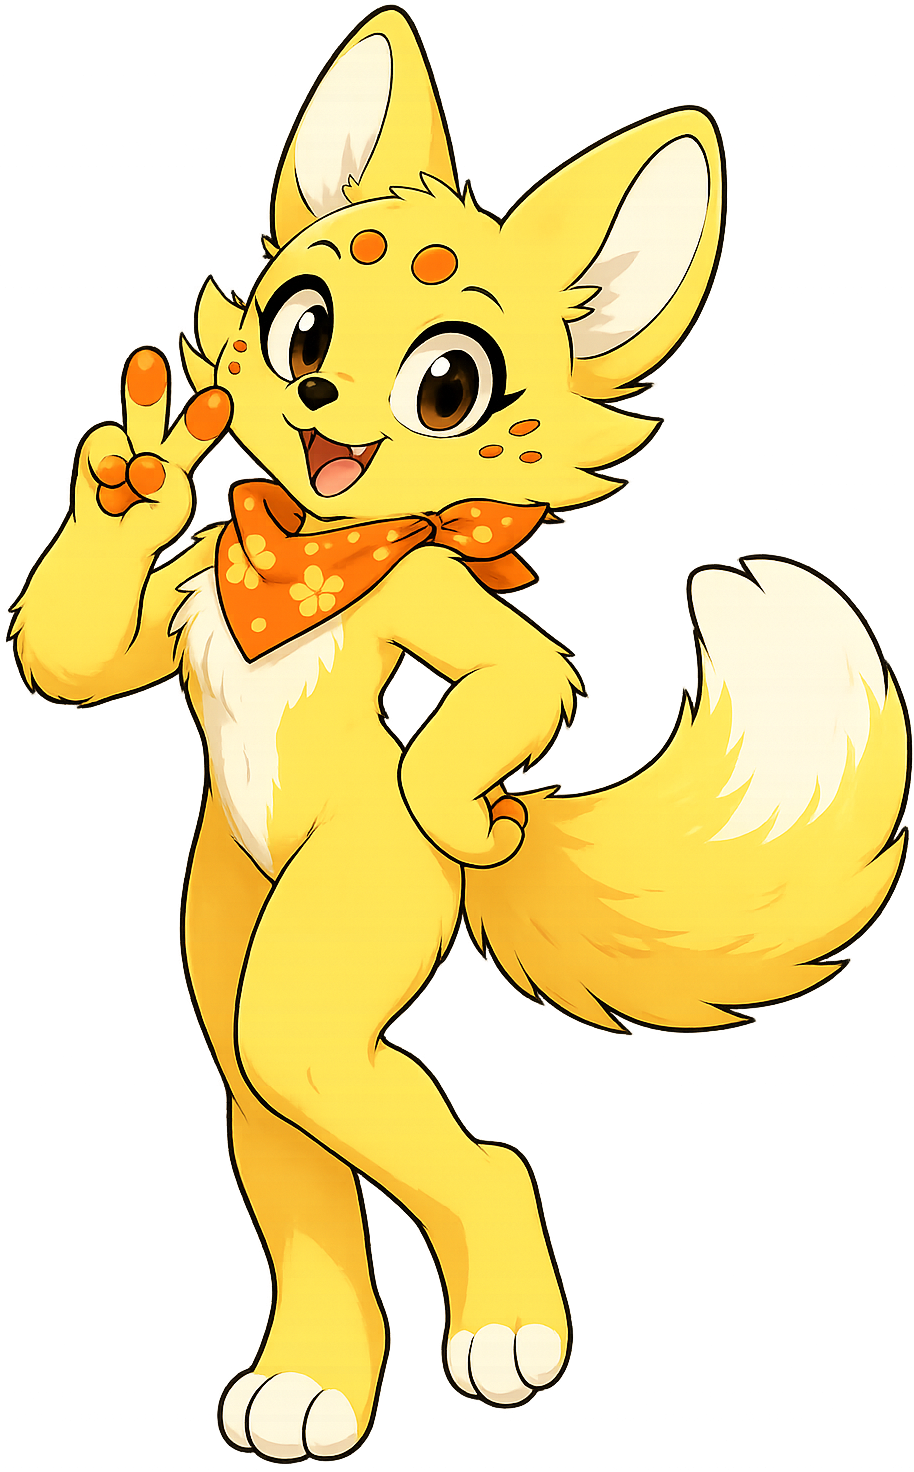
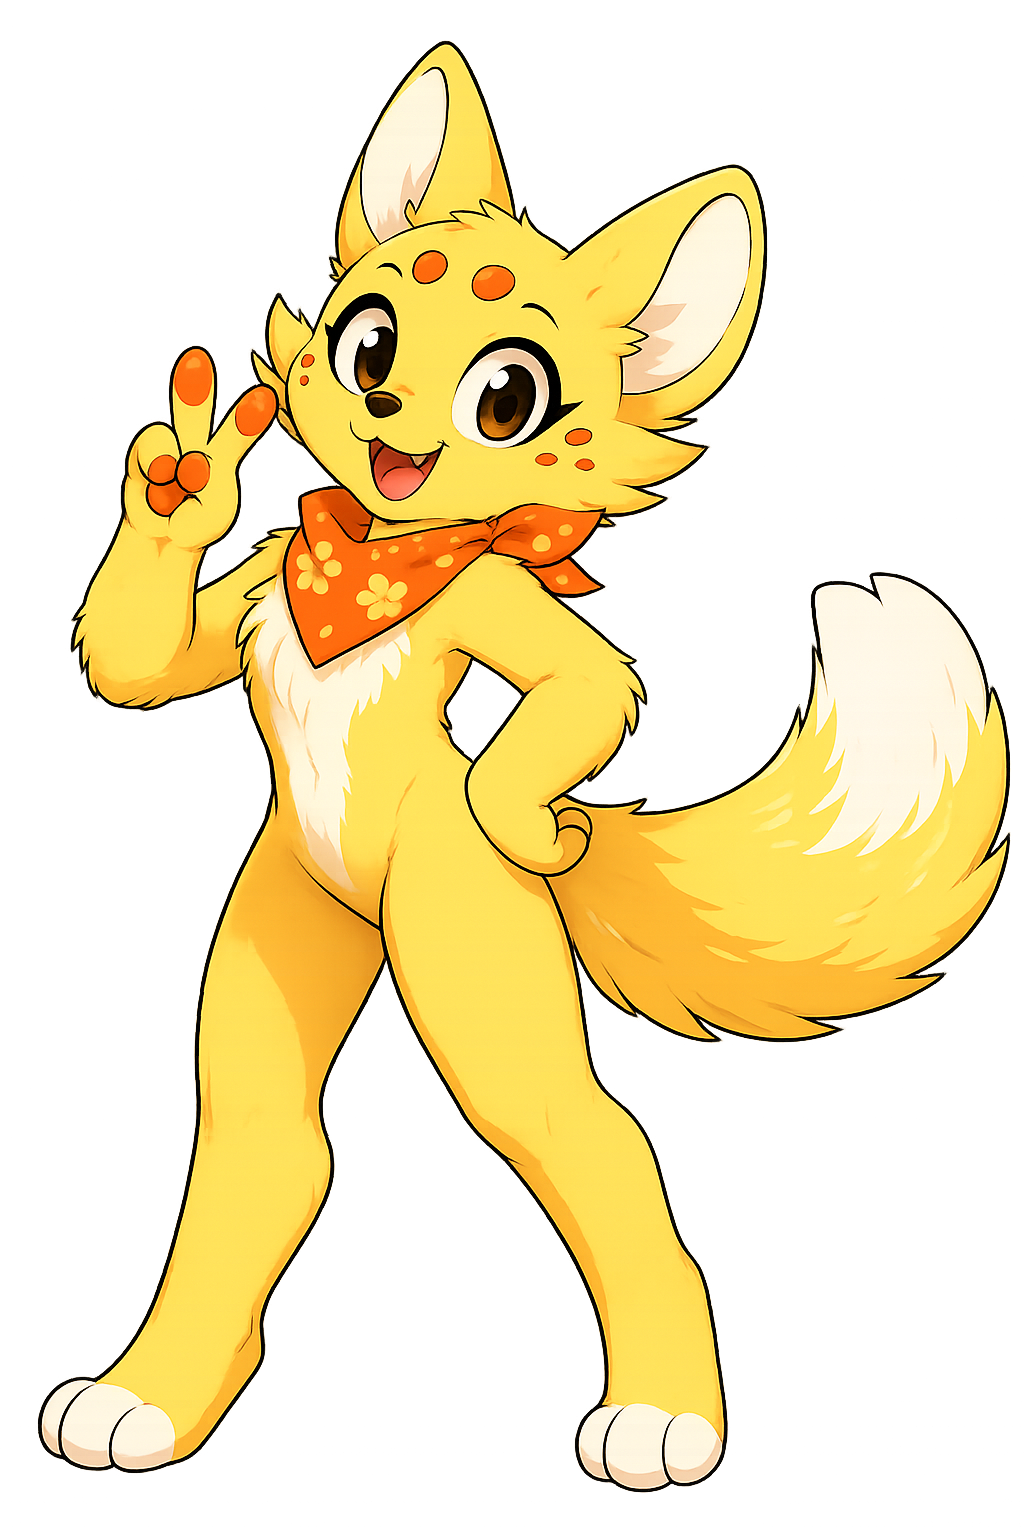
feat: add Enter Den button to LoadingScreen to enable audio autoplay

diff --git a/src/components/LoadingScreen.tsx b/src/components/LoadingScreen.tsx
@@ -33,17 +33,23 @@ export default function LoadingScreen() {
     };
   }, []);
 
+  const [showEnterButton, setShowEnterButton] = useState(false);
+
   useEffect(() => {
     if (progress === 100) {
-      // Small delay for satisfying 100% display
+      // Small delay before showing the enter button
       const timeout = setTimeout(() => {
-        setIsVisible(false);
-        document.body.style.overflow = "";
-      }, 350);
+        setShowEnterButton(true);
+      }, 200);
 
       return () => clearTimeout(timeout);
     }
   }, [progress]);
+
+  const handleEnter = () => {
+    setIsVisible(false);
+    document.body.style.overflow = "";
+  };
 
   return (
     <AnimatePresence>
@@ -96,19 +102,43 @@ export default function LoadingScreen() {
               </p>
             </div>
 
-            {/* Custom Progress Bar */}
-            <div className="w-52 space-y-2">
-              <div className="w-full h-3 bg-orange-100 border-2 border-orange-950 rounded-full overflow-hidden p-0.5 shadow-inner">
-                <motion.div 
-                  className="h-full bg-orange-500 rounded-full"
-                  style={{ width: `${progress}%` }}
-                  transition={{ ease: "easeOut" }}
-                />
-              </div>
-              
-              <div className="font-comic font-black text-sm text-orange-950">
-                {progress}%
-              </div>
+            {/* Custom Progress Bar / Enter Button */}
+            <div className="w-56 h-20 flex flex-col items-center justify-center relative">
+              <AnimatePresence mode="wait">
+                {!showEnterButton ? (
+                  <motion.div
+                    key="progress"
+                    initial={{ opacity: 1, scale: 1 }}
+                    exit={{ opacity: 0, scale: 0.9 }}
+                    className="w-full space-y-2 flex flex-col items-center"
+                  >
+                    <div className="w-full h-3 bg-orange-100 border-2 border-orange-950 rounded-full overflow-hidden p-0.5 shadow-inner">
+                      <motion.div 
+                        className="h-full bg-orange-500 rounded-full"
+                        style={{ width: `${progress}%` }}
+                        transition={{ ease: "easeOut" }}
+                      />
+                    </div>
+                    
+                    <div className="font-comic font-black text-sm text-orange-950">
+                      {progress}%
+                    </div>
+                  </motion.div>
+                ) : (
+                  <motion.button
+                    key="enter-btn"
+                    initial={{ opacity: 0, scale: 0.85, y: 10 }}
+                    animate={{ opacity: 1, scale: 1, y: 0 }}
+                    whileHover={{ scale: 1.05, rotate: 1 }}
+                    whileTap={{ scale: 0.95 }}
+                    onClick={handleEnter}
+                    className="w-full py-3 bg-orange-500 hover:bg-orange-600 text-white font-comic font-black text-base border-3 border-orange-950 shadow-[3px_4px_0px_#451a03] hover:shadow-[1px_2px_0px_#451a03] hover:translate-x-[2px] hover:translate-y-[2px] transition-all duration-150 rounded-2xl cursor-pointer flex items-center justify-center space-x-2"
+                  >
+                    <span>Enter Den</span>
+                    <span className="text-xl">🐾</span>
+                  </motion.button>
+                )}
+              </AnimatePresence>
             </div>
           </div>
         </motion.div>